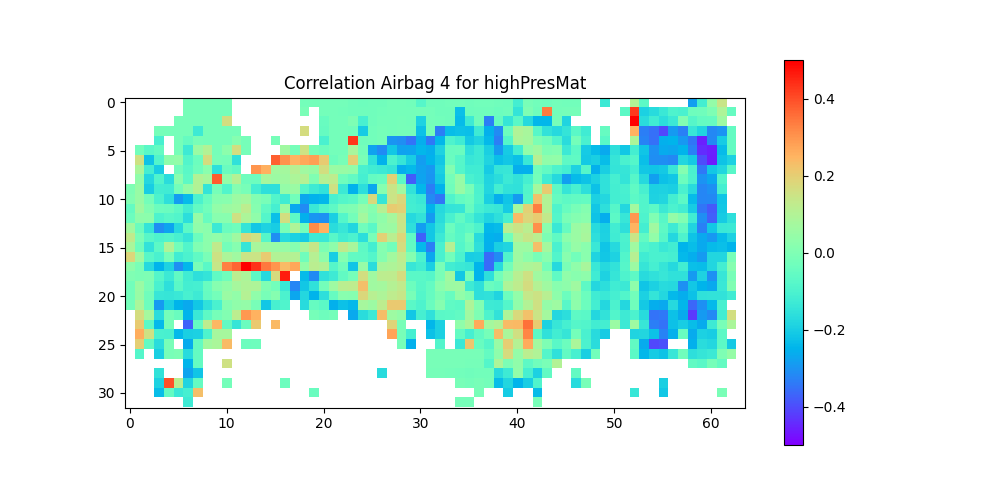
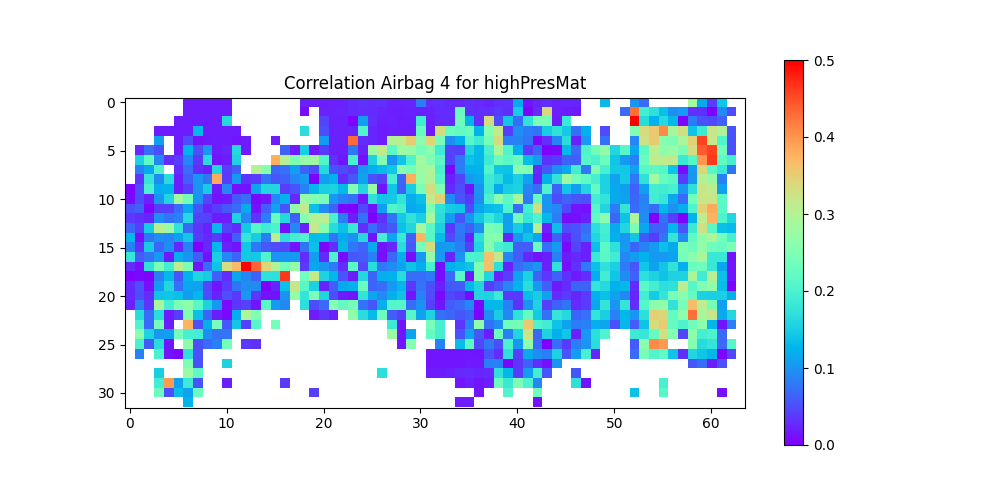
add airbag and highPresMat real-time comparison

diff --git a/airbag_correlation_analysis_high.py b/airbag_correlation_analysis_high.py
@@ -4,6 +4,7 @@ from datetime import datetime
 import numpy as np
 import scipy.stats
 import matplotlib.pyplot as plt
+import matplotlib.animation as animation
 
 
 ##### average values by second #####
@@ -176,7 +177,7 @@ def corretion_display():
     for i, correlations in enumerate(correlation_matrix):
         reshaped_correlations = correlations.reshape((32, 64))
         plt.figure(figsize=(10, 5))
-        plt.imshow(reshaped_correlations, cmap='rainbow', interpolation='nearest', vmin=-0.5, vmax=0.5)
+        plt.imshow(np.abs(reshaped_correlations), cmap='rainbow', interpolation='nearest', vmin=0, vmax=0.5)
         plt.colorbar()
         plt.title(f'Correlation Airbag {i + 1} for highPresMat')
         plt.savefig(f'./files_for_correlation_analysis/high/airbag_{i + 1}_highPresMat_correlation.png')
@@ -212,5 +213,45 @@ def corretion_display_3D():
     plt.show()
 
 
+def dynamic_pic(airbag_values, mat_values):
+    fig, (ax1, ax2) = plt.subplots(2, 1, figsize=(10, 10), gridspec_kw={'height_ratios': [1, 2]})
+    plt.subplots_adjust(left=0.2, right=0.8, top=0.95, bottom=0.05)
+
+    x = np.arange(1, 7)
+    line, = ax1.plot([], [], '-o')
+    ax1.set_xlim(0, 9)
+    ax1.set_ylim(np.min(airbag_values), np.max(airbag_values))
+    ax1.legend()
+    ax1.set_title("Airbag Pressure Values")
+    ax1.set_xlabel("Airbag Number")
+    ax1.set_ylabel("Pressure Value")
+
+    mat_image = np.reshape(mat_values[0], (32, 64))
+    im2 = ax2.imshow(mat_image, cmap='jet', interpolation='bilinear')
+    ax2.axis('off')
+    ax2.set_title("Pressure Mat Values")
+    fig.colorbar(im2, ax=ax2)
+
+    def update(frame):
+        y = airbag_values[frame, :]
+        line.set_data(x, y)
+
+        im2.set_array(mat_values[frame])
+
+    ani = animation.FuncAnimation(fig, update, frames=len(mat_values), interval=100, blit=False)
+
+    plt.tight_layout()
+    plt.show()
+
+
 if __name__ == "__main__":
-    corretion_display()
+    data_dic = read_data()
+
+    airbag_values = np.zeros((len(data_dic), 6))
+    mat_values = np.zeros((len(data_dic), 32, 64))
+
+    for idx, data in data_dic.items():
+        airbag_values[idx, :] = data['airbag_data']
+        mat_values[idx, :, :] = np.reshape(data['mat_data'], (32, 64))
+
+    dynamic_pic(airbag_values, mat_values)
